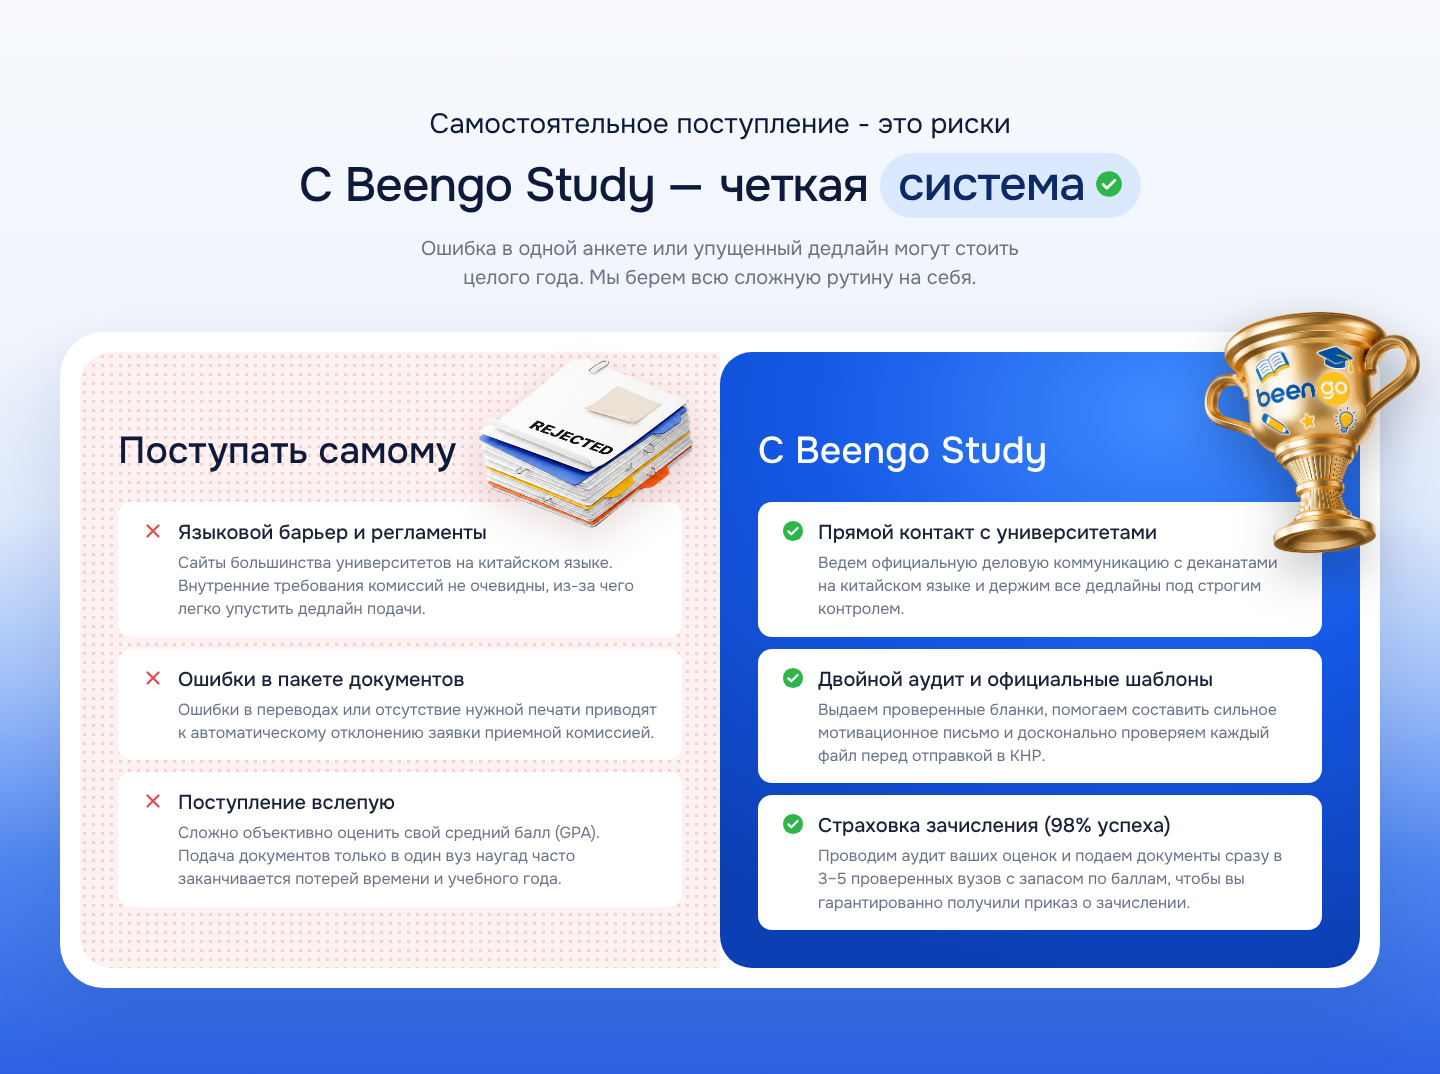
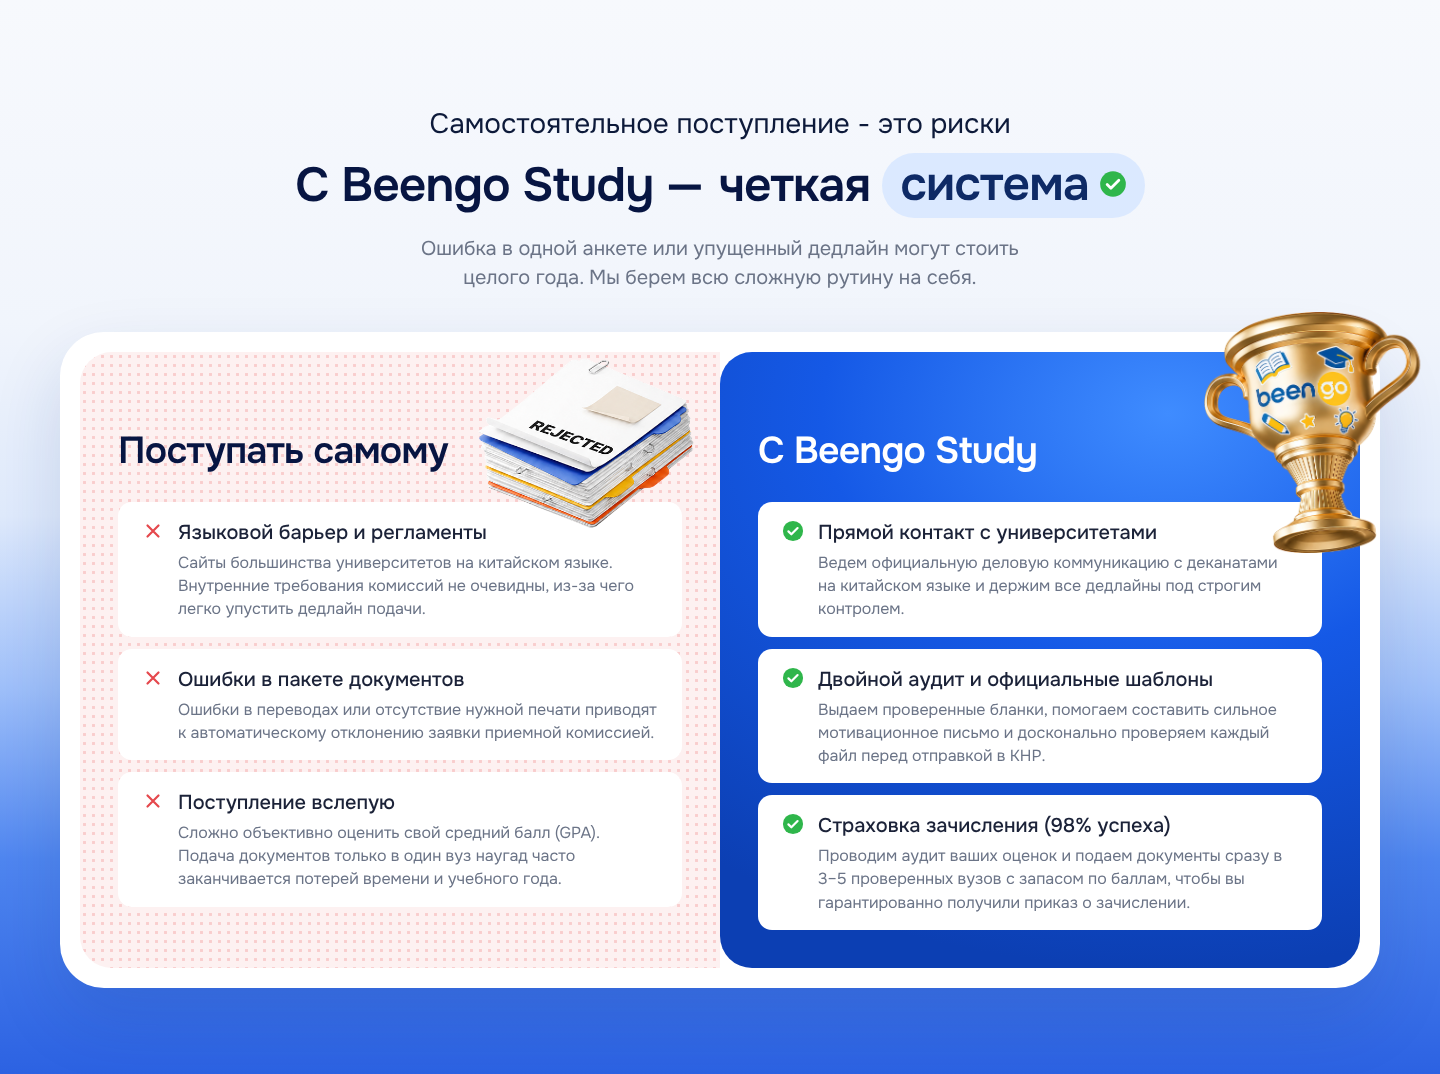
All headings SemiBold, programs-to-pains bg transition, no deco shadows
Claude-Session: https://claude.ai/code/session_01DveQThDXrjAqWsCdBVYsEN

diff --git a/index.html b/index.html
@@ -1325,7 +1325,7 @@ a,button,.dd-btn,.dd-opt{touch-action:manipulation}
 
 /* Заголовки секций: единое начертание Onest Bold */
 .h2,section h2,.frame h2,.docs-top h2,.ab-text h2,.lead h2,.faq h2,.side h3,.story-top h3{font-weight:700!important;letter-spacing:-.02em}
-.pains .h2,.why .h2,.checklist .h2{font-weight:700!important}
+.pains .h2,.why .h2,.checklist .h2{font-weight:600!important}
 
 /* Иконки соцсетей: белый фон, тёмно-синяя иконка */
 .soc a,.soc a[aria-label]{background:#fff!important;color:#0d1a3a!important}
@@ -1411,6 +1411,13 @@ a,button,.dd-btn,.dd-opt{touch-action:manipulation}
 .fcols > div:first-child{order:1}.fcols > div:last-child{order:2}.fcols > div:nth-child(2){order:3}
 @media (max-width:680px){.fcols > div:nth-child(2){margin:10px 0 4px!important}.fcols > div:last-child{padding-bottom:12px!important}}
 @media (max-width:980px){.fin{top:calc(108px + var(--i,0)*18px)}}
+
+/* все заголовки — SemiBold */
+h1,h2,.h2,.why .h2,.pains .h2,.checklist .h2{font-weight:600!important}
+/* программы: серый фон плавно переходит в фон «Четкой системы» */
+#programs.sec{background:linear-gradient(180deg,#e9eff8 0%,#eef2f9 55%,#f7f9fd 100%);padding-bottom:0}
+/* без теней у REJECTED и кубка */
+.side .deco,.side.bad .deco,.side.good .deco{filter:none!important}
 </style>
 </head>
 <body>
